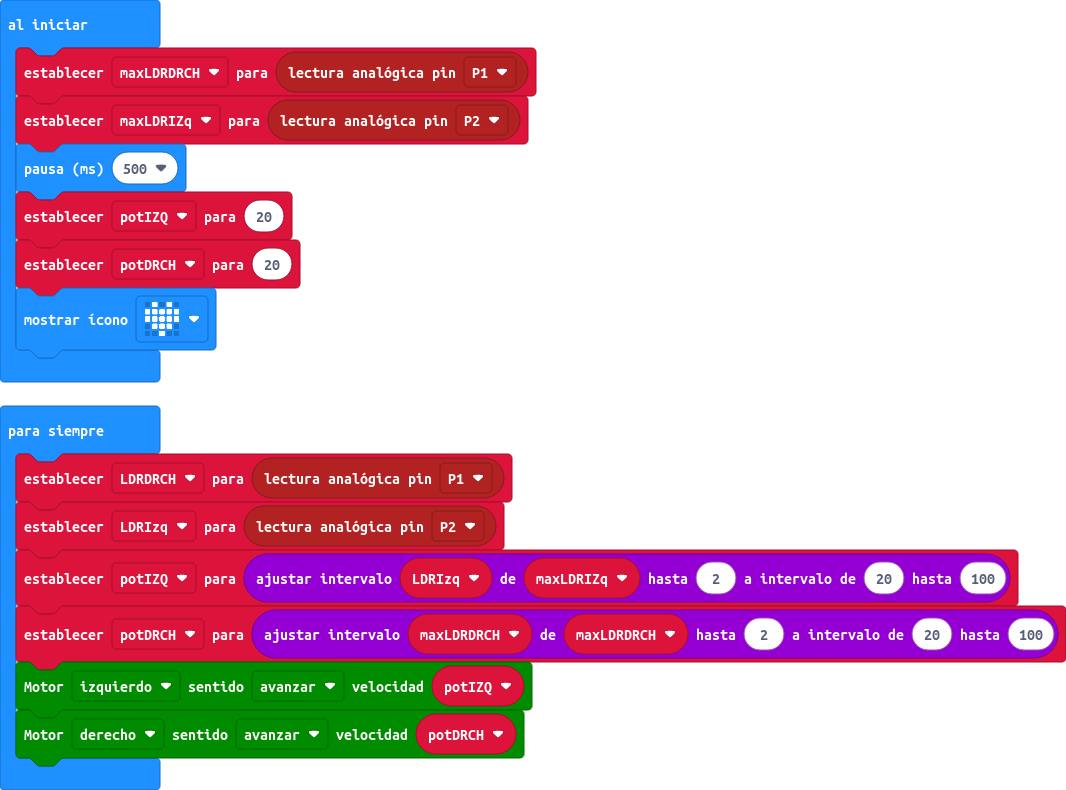
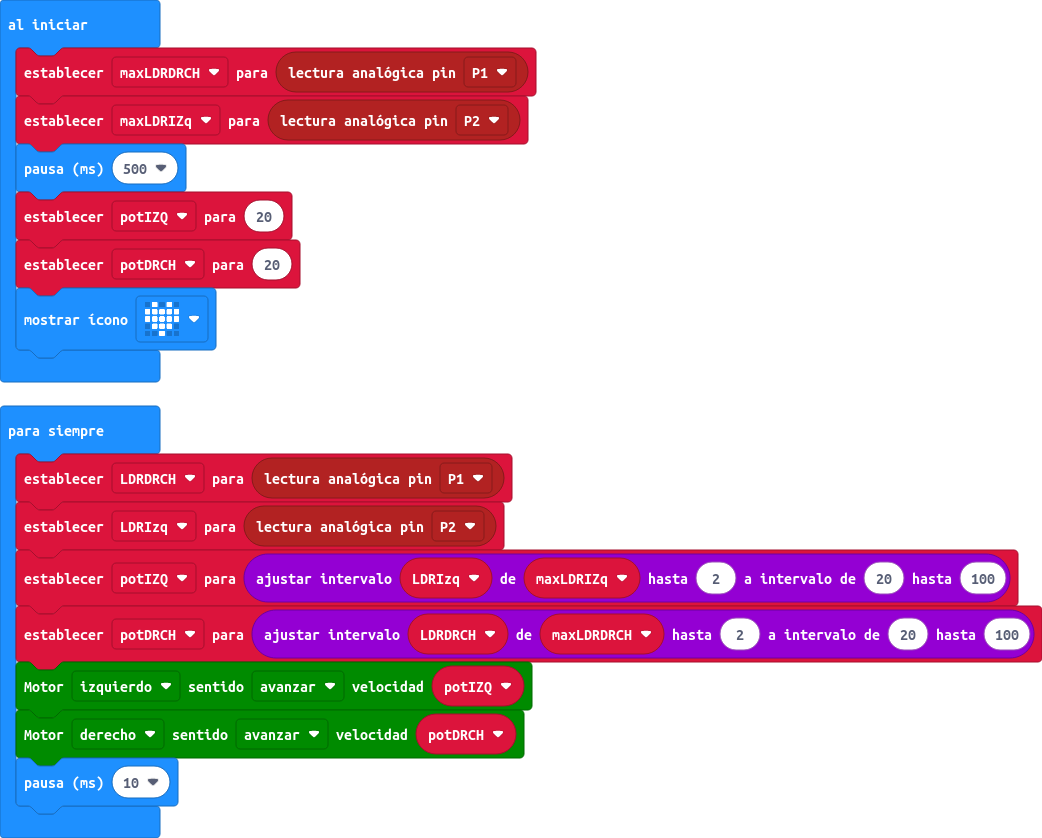
Actualizar main.blocks, main.ts

Changed region(s): [[0.0, 0.0, 1.0, 1.0]]

diff --git a/main.ts b/main.ts
@@ -10,7 +10,8 @@ basic.forever(function () {
     LDRDRCH = pins.analogReadPin(AnalogPin.P1)
     LDRIzq = pins.analogReadPin(AnalogPin.P2)
     potIZQ = Math.map(LDRIzq, maxLDRIZq, 2, 20, 100)
-    potDRCH = Math.map(maxLDRDRCH, maxLDRDRCH, 2, 20, 100)
+    potDRCH = Math.map(LDRDRCH, maxLDRDRCH, 2, 20, 100)
     maqueen.motorRun(maqueen.Motors.M1, maqueen.Dir.CW, potIZQ)
     maqueen.motorRun(maqueen.Motors.M2, maqueen.Dir.CW, potDRCH)
+    basic.pause(10)
 })
